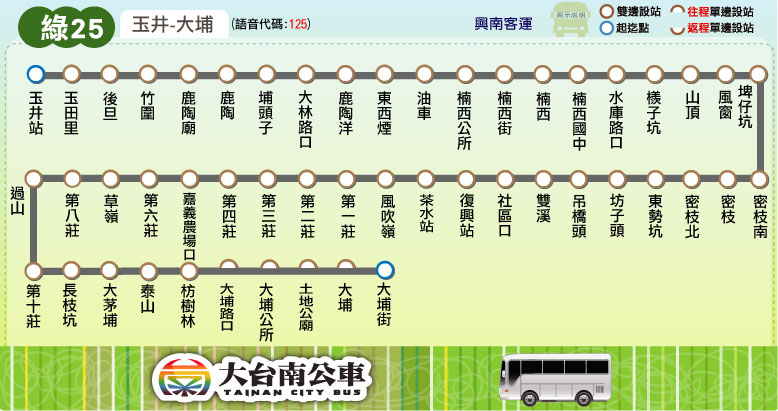
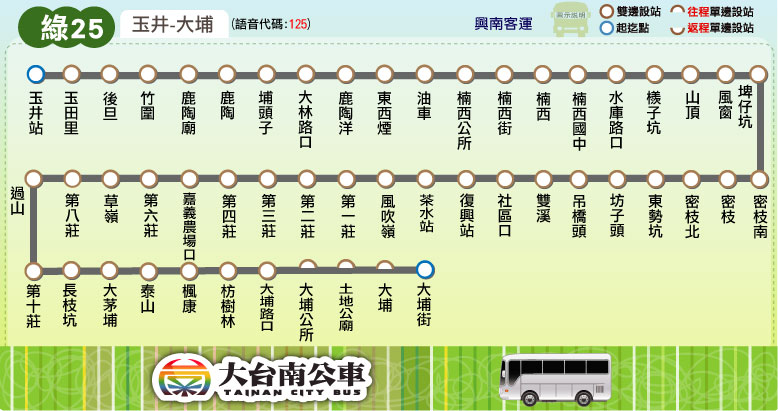
更新時刻表：3、10、15、綠幹線、綠12、黃6、黃11-1(改為每日行駛)；新增站位：綠25(增「楓康」站)

Changed region(s): [[0.2159, 0.6131, 0.5861, 0.8467], [0.0925, 0.6423, 0.1234, 0.6715]]

diff --git a/route/fare_and_time/city_bus_3.js b/route/fare_and_time/city_bus_3.js
@@ -2,26 +2,38 @@
 // [time, other] or
 // [time, start_stop, end_stop, other]
 city_bus_3_main_stop_name = ["海東國小","海東橋","特力屋、<br />好市多","赤崁樓","臺南<br />火車站","文化中心","市立醫院","竹篙厝","全福新城","復興國中"];
-city_bus_3_main_stop_time_consume = [0, 10, 15, 25, 35, 50, 58, 65, 70, 75];
-city_bus_3_important_stop = [0, 4, 7]; // 海東國小, 臺南火車站, 竹篙厝
+city_bus_3_main_stop_time_consume = [0, 10, 15, 25, 35, 50, 58, 65, 65, 75];
+city_bus_3_important_stop = [0, 4, 7, 8]; // 海東國小, 臺南火車站, 竹篙厝, 全福新城
 var start_stop = 0; // 海東國小
 var tra_tainan = 4; // 臺南火車站
 var end_stop = 7; // 竹篙厝
 var end_stop_2 = 8; // 全福新城
-city_bus_3_time_go = [["06:00",start_stop,end_stop,['W',[tra_tainan,-5]]],["06:15",start_stop,end_stop,['L']],["06:30",start_stop,end_stop,['W']],["06:45",start_stop,end_stop_2],["07:05",start_stop,end_stop],
-["07:35",start_stop,end_stop,['L']],["08:00",start_stop,end_stop],["08:30",start_stop,end_stop],["09:00",start_stop,end_stop],["09:30",start_stop,end_stop],["10:00",start_stop,end_stop_2],["10:30",start_stop,end_stop,['L']],
+city_bus_3_time_go = [["06:00",start_stop,end_stop,['W',[tra_tainan,-5]]],["06:15",start_stop,end_stop,['L']],["06:20",start_stop,end_stop,['W']],["06:30",start_stop,end_stop,['W']],["06:45",start_stop,end_stop_2,[end_stop]],["07:05",start_stop,end_stop],
+["07:35",start_stop,end_stop,['L']],["08:00",start_stop,end_stop],["08:30",start_stop,end_stop],["09:00",start_stop,end_stop],["09:30",start_stop,end_stop],["10:00",start_stop,end_stop_2,[end_stop]],["10:30",start_stop,end_stop,['L']],
 ["11:00",start_stop,end_stop,['L']],["11:30",[end_stop_2]],["12:00",start_stop,end_stop],["12:30",start_stop,end_stop],["13:00",start_stop,end_stop],["13:30",start_stop,end_stop,['L']],
-["14:00",start_stop,end_stop],["14:20",start_stop,end_stop],["14:40",start_stop,end_stop_2],["15:05",start_stop,end_stop],["15:25",start_stop,end_stop],["15:45",start_stop,end_stop],["16:00",[end_stop_2]],
-["16:20",start_stop,end_stop],["16:40",start_stop,end_stop,['L',[tra_tainan,5]]],["16:55",[end_stop_2,[tra_tainan,5]]],["17:10",start_stop,end_stop,[[tra_tainan,5]]],["17:25",start_stop,end_stop,[[tra_tainan,5]]],
+["14:00",start_stop,end_stop],["14:20",start_stop,end_stop],["14:40",start_stop,end_stop_2,[end_stop]],["15:05",start_stop,end_stop],["15:25",start_stop,end_stop],["15:45",start_stop,end_stop],["16:00",[end_stop_2]],
+["16:20",start_stop,end_stop],["16:40",start_stop,end_stop,['L']],["16:55",[end_stop_2,[tra_tainan,5]]],["17:10",start_stop,end_stop,[[tra_tainan,5]]],["17:25",start_stop,end_stop,[[tra_tainan,5]]],
 ["17:40",start_stop,end_stop,[[tra_tainan,5]]],["18:00",start_stop,end_stop,[[tra_tainan,5]]],["18:20",start_stop,end_stop,[[tra_tainan,5]]],["18:45",start_stop,end_stop],["19:25",start_stop,end_stop],["20:00",start_stop,end_stop],
 ["20:40",start_stop,end_stop],["21:15",start_stop,end_stop]
 ];
-city_bus_3_time_return = [["06:00",end_stop,start_stop,['W']],["06:15",[end_stop_2,[tra_tainan,-5]]],["06:30",end_stop,start_stop,['W']],["06:45",[end_stop_2,[tra_tainan,-5]]],
-["07:10",end_stop,start_stop],["07:30",end_stop,start_stop,['L']],["07:45",end_stop,start_stop],["08:00",end_stop_2,start_stop],["08:25",end_stop,start_stop],
-["08:50",end_stop,start_stop,['L']],["09:15",end_stop,start_stop],["09:45",end_stop,start_stop],["10:15",end_stop,start_stop,['L']],["10:45",end_stop,start_stop],
-["11:15",end_stop_2,start_stop],["11:45",end_stop,start_stop,['L']],["12:15",end_stop,start_stop,['L']],["12:50",[end_stop_2,[tra_tainan,-5]]],["13:15",end_stop,start_stop,['L']],
-["13:45",end_stop,start_stop],["14:15",end_stop,start_stop],["14:45",end_stop,start_stop,['L']],["15:15",end_stop,start_stop,['L']],["15:35",end_stop,start_stop],
-["16:00",end_stop_2,start_stop],["16:20",end_stop,start_stop],["16:40",end_stop,start_stop,['L']],["17:00",end_stop,start_stop,[[tra_tainan,5]]],["17:25",[end_stop_2,[tra_tainan,-5]]],
-["17:40",end_stop,start_stop,['L',[end_stop-1,5,tra_tainan,5]]],["18:05",end_stop,start_stop,['L',[tra_tainan,5]]],["18:30",[end_stop_2,[tra_tainan,-5]]],["18:50",end_stop,start_stop,[[tra_tainan,5]]],["19:25",end_stop,start_stop],
-["20:00",end_stop,start_stop],["20:40",end_stop,start_stop],["21:15",end_stop,start_stop,['L',[tra_tainan,5]]]
+
+var return_start = 1; // 竹篙厝
+var return_end = 9; // 海東國小
+var return_skip = 2; // 復興國中
+var return_tra_tainan = 5; // 臺南火車站
+city_bus_3_main_stop_name_return = ["全福新城","竹篙厝","復興國中","市立醫院","文化中心","臺南<br />火車站","赤崁樓","特力屋、<br />好市多","海東橋","海東國小"];
+city_bus_3_main_stop_time_consume_return = [0, 5, 20, 12, 20, 35, 40, 50, 55, 60];
+city_bus_3_important_stop_return = [0, 1, 5, 9]; // 全福新城, 竹篙厝, 臺南火車站, 海東國小
+city_bus_3_time_return = [["06:00",return_start,return_end,['W',return_skip]],["06:00",return_start,return_end,[[return_skip+1,20]]],["06:30",return_start,return_end,['W',return_skip]],
+["06:30",return_start,return_end,[[return_skip+1,20]]],["07:10",return_start,return_end,[return_skip]],["07:30",return_start,return_end,['L',return_skip]],
+["07:45",return_start,return_end,[return_skip]],["08:00",[return_skip]],["08:25",return_start,return_end,[return_skip]],["08:50",return_start,return_end,['L',return_skip]],
+["09:15",return_start,return_end,[return_skip]],["09:45",return_start,return_end,[return_skip]],["10:15",return_start,return_end,['L',return_skip]],
+["10:45",return_start,return_end,[return_skip]],["11:15",[return_skip]],["11:45",return_start,return_end,['L',return_skip]],["12:15",return_start,return_end,['L',return_skip]],
+["12:35",return_start,return_end,[[return_skip+1,20]]],["13:15",return_start,return_end,['L',return_skip]],["13:45",return_start,return_end,[return_skip]],
+["14:15",return_start,return_end,[return_skip]],["14:45",return_start,return_end,['L',return_skip]],["15:15",return_start,return_end,['L',return_skip]],
+["15:35",return_start,return_end,[return_skip]],["16:00",[return_skip]],["16:20",return_start,return_end,[return_skip]],["16:40",return_start,return_end,['L',return_skip]],
+["17:00",return_start,return_end,[return_skip,[return_tra_tainan,5]]],["17:20",return_start,return_end,['W',return_skip]],["17:10",return_start,return_end,[[return_skip+1,20]]],
+["17:40",return_start,return_end,['L',return_skip,[return_tra_tainan-1,5,return_tra_tainan,5]]],["18:05",return_start,return_end,['L',return_skip,[return_tra_tainan,5]]],
+["18:15",return_start,return_end,[[return_skip+1,20]]],["18:50",return_start,return_end,[return_skip,[return_tra_tainan,5]]],["19:25",return_start,return_end,[return_skip]],
+["20:00",return_start,return_end,[return_skip]],["20:40",return_start,return_end,[return_skip]],["21:15",return_start,return_end,['L',return_skip,[return_tra_tainan,5]]]
 ];

diff --git a/route/fare_and_time/city_bus_15.js b/route/fare_and_time/city_bus_15.js
@@ -1,14 +1,16 @@
 // format = [time at the start stop] or
 // [time, other] or
 // [time, start_stop, end_stop, other]
-city_bus_15_main_stop_name = ["奇美<br />醫院","臺南<br />高工","中華、<br />小東路口","南紡<br />夢時代","中華東、<br />東門路口","巴克禮<br />公園","大林<br />國宅","國民、<br />大成路口","家齊<br />女中","大成<br />國中","大成<br />路口"];
+city_bus_15_main_stop_name = ["奇美<br />醫院","臺南<br />高工","中華、<br />小東路口","南紡購<br />物中心","中華東、<br />東門路口","巴克禮<br />公園","大林<br />國宅","國民、<br />大成路口","家齊<br />高中","大成<br />國中","大成<br />路口"];
 city_bus_15_main_stop_time_consume = [0, 5, 10, 12, 17, 21, 25, 27, 30, 33, 35];
 city_bus_15_important_stop = [0, 1, 3, 5, 8]; // 大成路口, 臺南站, 臺南火車站, 海東國小, 聖母廟, 城西里
-city_bus_15_time_go = [["06:00",0,9,['W']],["06:20",0,9],["06:45",0,9],["07:15"],["07:35",0,9],["08:15",0,9],["08:50",0,9],
-["09:20"],["09:55",0,9],["10:35",0,9],["11:00"],["11:35",0,9],["12:15",0,9],["12:50"],["13:20",0,9],["14:00",0,9],["14:40"],
-["15:10",0,9],["15:40",0,9],["16:20",0,9],["16:40"],["17:20",0,9],["17:55",0,9],["18:25"],["19:00",0,9],["19:35",0,9],
-["20:10",0,9],["20:40",0,9],["21:20",0,9],["22:00",0,9]];
-city_bus_15_time_return = [["06:10",9,0],["06:35",9,0],["06:55",9,0],["07:35",9,0],["08:08"],["08:40",9,0],["09:15",9,0],
-["09:55",9,0],["10:18"],["10:55",9,0],["11:35",9,0],["12:03"],["12:35",9,0],["13:15",9,0],["13:48"],["14:30",9,0],
-["15:00",9,0],["15:33"],["16:00",9,0],["16:35",9,0],["17:10",9,0],["17:33"],["18:15",9,0],["18:55",9,0],["19:28"],
-["20:00",9,0],["20:40",9,0],["21:20",9,0],["22:00",9,0]];
+var start_stop = 0; // 奇美醫院
+var end_stop = 9; // 大成國中
+city_bus_15_time_go = [["06:00",start_stop,end_stop,['W']],["06:15",start_stop,end_stop,['W']],["06:20",start_stop,end_stop,['H']],["06:30",start_stop,end_stop,['W']],["06:45",start_stop,end_stop],["07:15"],["07:35",start_stop,end_stop],["08:15",start_stop,end_stop],["08:50",start_stop,end_stop],
+["09:20"],["09:55",start_stop,end_stop],["10:35",start_stop,end_stop],["11:00"],["11:35",start_stop,end_stop],["12:15",start_stop,end_stop],["12:50"],["13:20",start_stop,end_stop],["14:00",start_stop,end_stop],["14:40"],
+["15:10",start_stop,end_stop],["15:40",start_stop,end_stop],["16:20",start_stop,end_stop],["16:40"],["17:20",start_stop,end_stop],["17:55",start_stop,end_stop],["18:25"],["19:00",start_stop,end_stop],["19:35",start_stop,end_stop],
+["20:10",start_stop,end_stop],["20:40",start_stop,end_stop],["21:20",start_stop,end_stop],["22:00",start_stop,end_stop]];
+city_bus_15_time_return = [["06:10",end_stop,start_stop],["06:20",end_stop,start_stop,['W']],["06:35",end_stop,start_stop],["06:55",end_stop,start_stop],["07:35",end_stop,start_stop],["08:08"],["08:40",end_stop,start_stop],["09:15",end_stop,start_stop],
+["09:55",end_stop,start_stop],["10:18"],["10:55",end_stop,start_stop],["11:35",end_stop,start_stop],["12:03"],["12:35",end_stop,start_stop],["13:15",end_stop,start_stop],["13:48"],["14:30",end_stop,start_stop],
+["15:00",end_stop,start_stop],["15:33"],["16:00",end_stop,start_stop],["16:35",end_stop,start_stop],["17:10",end_stop,start_stop],["17:33"],["18:15",end_stop,start_stop],["18:55",end_stop,start_stop],["19:28"],
+["20:00",end_stop,start_stop],["20:40",end_stop,start_stop],["21:20",end_stop,start_stop],["22:00",end_stop,start_stop]];

diff --git a/route/fare_and_time/yellow_6.js b/route/fare_and_time/yellow_6.js
@@ -38,18 +38,18 @@ yellow_6_holiday_fare = [
 // [time, other] or
 // [time, start_stop, end_stop, other]
 yellow_6_main_stop_name = ["新營","竹新里","仕安里","鎮安堂","菁寮","白沙屯","後壁火車站/<br />後壁區公所"];
-yellow_6_main_stop_time_consume = [0, 13, 15, 17, 21, 26, 41];
+yellow_6_main_stop_time_consume = [0, 13, 15, 16, 20, 25, 40];
 yellow_6_important_stop = [0, 4, 6]; // 新營, 菁寮, 後壁火車站
 var start_stop = 0; // 新營
 var skip_stop = 1; // 竹新里
 var skip_stop_2 = 3; // 鎮安堂
 var end_stop = 5; // 白沙屯
 yellow_6_time_go = [["05:50",start_stop,end_stop,[skip_stop,skip_stop_2]],["06:45",start_stop,end_stop,[skip_stop,skip_stop_2]],
-["08:00",['繞',[skip_stop+1,12,skip_stop_2,2]]],["11:00",['繞',[skip_stop+1,12,skip_stop_2,2]]],["13:05",['繞',[skip_stop+1,12,skip_stop_2,2]]],["15:20",[skip_stop,skip_stop_2]],["17:40",[skip_stop,skip_stop_2]]];
+["07:50",['繞',[skip_stop+1,12,skip_stop_2,3]]],["11:00",['繞',[skip_stop+1,12,skip_stop_2,3]]],["13:05",['繞',[skip_stop+1,12,skip_stop_2,3]]],["15:20",[skip_stop,skip_stop_2]],["17:40",[skip_stop,skip_stop_2]]];
 yellow_6_time_return = [["06:20",end_stop,start_stop,[skip_stop,skip_stop_2]],["07:10",end_stop,start_stop,[skip_stop,skip_stop_2]],
-["09:00",['繞',[skip_stop_2-1,2,skip_stop,12]]],["12:00",['繞',[skip_stop_2-1,2,skip_stop,12]]],["14:05",['繞',[skip_stop_2-1,2,skip_stop,12]]],["16:05",[skip_stop,skip_stop_2]],["18:30",[skip_stop,skip_stop_2]]];
+["08:50",['繞',[skip_stop_2-1,3,skip_stop,12]]],["12:00",['繞',[skip_stop_2-1,3,skip_stop,12]]],["14:05",['繞',[skip_stop_2-1,3,skip_stop,12]]],["16:05",[skip_stop,skip_stop_2]],["18:30",[skip_stop,skip_stop_2]]];
 // holiday schedule
 yellow_6_holiday_time_go = [["05:50",start_stop,end_stop,[skip_stop,skip_stop_2]],["06:45",start_stop,end_stop,[skip_stop,skip_stop_2]],
-["08:00",[skip_stop,skip_stop_2]],["11:00",[skip_stop,skip_stop_2]],["13:05",[skip_stop,skip_stop_2]],["15:20",[skip_stop,skip_stop_2]],["17:40",[skip_stop,skip_stop_2]]];
+["07:50",[skip_stop,skip_stop_2]],["11:00",[skip_stop,skip_stop_2]],["13:05",[skip_stop,skip_stop_2]],["15:20",[skip_stop,skip_stop_2]],["17:40",[skip_stop,skip_stop_2]]];
 yellow_6_holiday_time_return = [["06:20",end_stop,start_stop,[skip_stop,skip_stop_2]],["07:10",end_stop,start_stop,[skip_stop,skip_stop_2]],
-["08:45",[skip_stop,skip_stop_2]],["11:45",[skip_stop,skip_stop_2]],["13:50",[skip_stop,skip_stop_2]],["16:05",[skip_stop,skip_stop_2]],["18:30",[skip_stop,skip_stop_2]]];
+["08:35",[skip_stop,skip_stop_2]],["11:45",[skip_stop,skip_stop_2]],["13:50",[skip_stop,skip_stop_2]],["16:05",[skip_stop,skip_stop_2]],["18:30",[skip_stop,skip_stop_2]]];

diff --git a/route/fare_and_time/yellow_11_1.js b/route/fare_and_time/yellow_11_1.js
@@ -19,7 +19,6 @@ yellow_11_1_interval_stop = [
 ["東原國中","瓦厝"],
 ["東原"]*/
 ];
-yellow_11_1_stop_time_consume = [0,1,2,3,4,5,7,8,8,9,9,10,11,14,14,15,15,16,17,18,20,22,23,24,24,25,26,27];
 yellow_11_1_fare = [
 [26],
 [26,26],
@@ -40,12 +39,12 @@ yellow_11_1_fare = [
 // format = [time at the start stop] or
 // [time, other] or
 // [time, start_stop, end_stop, other]
-yellow_11_1_main_stop_name = ["白河","東山","東原","南寮口","二坑埔","李子園","北寮","青山","東原","白河"];
-yellow_11_1_main_stop_time_consume = [0, 5, 22, 31, 36, 50, 55, 62, 68, 90];
+yellow_11_1_main_stop_name = ["白河","東山","東原","南寮口","二坑埔","檳榔宅","李子園","北寮","青山","東原國中","白河"];
+yellow_11_1_main_stop_time_consume = [0, 5, 22, 31, 36, 39, 50, 55, 62, 68, 90];
+yellow_11_1_important_stop = [0, 4, 6, 8, 10]; // 白河, 二坑埔, 李子園, 青山, 白河
 yellow_11_1_time_go = [["06:10"]];
 
-yellow_11_1_main_stop_name_reverse = ["白河","東山","東原","青山","北寮","李子園","二坑埔","南寮口","東原","白河"];
-yellow_11_1_main_stop_time_consume_reverse = [0, 5, 22, 27, 35, 40, 54, 59, 68, 90];
+yellow_11_1_main_stop_name_return = ["白河","東山","東原","青山","北寮","李子園","檳榔宅","二坑埔","南寮口","東原國中","白河"];
+yellow_11_1_main_stop_time_consume_return = [0, 5, 22, 28, 35, 40, 51, 54, 59, 68, 90];
+yellow_11_1_important_stop_return = [0, 3, 5, 7, 10]; // 白河, 青山, 李子園, 二坑埔, 白河
 yellow_11_1_time_return = [["12:40"],["16:40"]];
-
-yellow_11_1_important_stop = [0, 3, 4, 5, 6, 7]; // 白河, 二坑埔 李子園, 青山

diff --git a/yellow/yellow_11-1.html b/yellow/yellow_11-1.html
@@ -55,22 +55,7 @@
 	</div>\
 </div>');
 	block_fare(0, null);
-	document.write('<div id="timetable">\
-	<a name="time"></a>\
-	<div class="title">\
-		<h2>大台南公車 ─ ' + route_name + ' 時刻表</h2>\
-		<span class="byline">Tainan Bus ' + route_name_en + ', Bus schedule</span>\
-	</div>\
-	<div class="content">\
-		<h2><font color="orange">白河-&gt;二坑埔-&gt;李子園-&gt;青山-&gt;白河</font></h2>'
-	+ create_time_schedule(yellow_11_1_main_stop_name, yellow_11_1_main_stop_time_consume, yellow_11_1_important_stop, yellow_11_1_time_go, false)
-	+ '<p>　</p>\
-		<h2><font color="orange">白河-&gt;青山-&gt;李子園-&gt;二坑埔-&gt;白河</font></h2>'
-	+ create_time_schedule(yellow_11_1_main_stop_name_reverse, yellow_11_1_main_stop_time_consume_reverse, yellow_11_1_important_stop, yellow_11_1_time_return, false)
-	+ TimeScheduleMSG
-	+ 	'<h1><font color="blue">僅週一至週五行駛</font></h1>\
-	</div>\
-</div>');
+	block_time_schedule_diffreturn('白河-&gt;二坑埔-&gt;李子園-&gt;青山-&gt;白河','白河-&gt;青山-&gt;李子園-&gt;二坑埔-&gt;白河','');
 	block_transfer(transfer_baihe);
 	block_copyright();
 </script>

diff --git a/route/fare_and_time/green_12.js b/route/fare_and_time/green_12.js
@@ -33,7 +33,7 @@ green_12_main_stop_time_consume = [0, 8, 14, 17, 19, 21, 24, 30, 38, 46, 55];
 green_12_important_stop = [0, 3, 7, 10]; // 新化, 左鎮化石館, 南化, 玉山
 start_stop = 0; // 新化
 end_stop = 7; // 南化
-green_12_time_go = [["05:25",start_stop,end_stop],["07:00",start_stop,end_stop,['W']],["08:10"],["08:35",start_stop,end_stop,['W']],
+green_12_time_go = [["05:25",start_stop,end_stop],["07:00",start_stop,end_stop,['W']],["08:00",start_stop,end_stop,['W']],["08:10"],["08:35",start_stop,end_stop,['W']],
 ["10:30"],["12:20"],["14:05",['W']],["15:40",start_stop,end_stop,['W']],["17:25",start_stop,end_stop,['W']],["18:10"],["21:20"]];
-green_12_time_return = [["05:55",end_stop,start_stop],["07:30",end_stop,start_stop,['W']],["09:05",end_stop,start_stop,['W']],["09:10"],
+green_12_time_return = [["05:55",end_stop,start_stop],["07:30",end_stop,start_stop,['W']],["08:30",end_stop,start_stop,['W']],["09:05",end_stop,start_stop,['W']],["09:10"],
 ["11:30"],["13:20"],["15:00",['W']],["16:15",end_stop,start_stop,['W']],["17:55",end_stop,start_stop,['W']],["19:10"],["22:15"]];

diff --git a/route/fare_and_time/city_bus_10.js b/route/fare_and_time/city_bus_10.js
@@ -2,7 +2,7 @@
 // [time, other] or
 // [time, start_stop, end_stop, other]
 city_bus_10_main_stop_name = ["臺南<br />火車站","小西門<br />(大億麗緻)","永華市政中心<br />(府前路)","特力屋<br />好市多","同安路口","海東國小","臺南科工區<br />服務中心","四草野生<br />動物保護區","大眾廟","鹿耳門<br />天后宮"];
-city_bus_10_main_stop_time_consume = [0, 9, 15, 25, 35, 45, 53, 59, 60, 65];
+city_bus_10_main_stop_time_consume = [0, 9, 15, 25, 35, 40, 48, 54, 55, 60];
 city_bus_10_important_stop = [0, 2, 5, 7, 9]; // 臺南火車站, 永華市政中心, 海東國小, 鹽田生態村, 鹿耳門天后宮
-city_bus_10_time_go = [["06:10"],["07:20",[[1,-5,3,-3,4,-5,5,-7]]],["08:35"],["11:00"],["12:10"],["14:30"],["16:00",[[3,-3,4,-5,5,-7]]],["17:20"],["18:30"]];
+city_bus_10_time_go = [["06:10"],["07:20"],["08:35"],["11:00"],["12:10"],["14:30"],["16:00"],["17:20"],["18:30"]];
 city_bus_10_time_return = [["06:10"],["07:15"],["08:50"],["10:00"],["12:30"],["13:40"],["16:00"],["17:00"],["18:50"],["20:10"]];

diff --git a/route/fare_and_time/green.js b/route/fare_and_time/green.js
@@ -34,7 +34,7 @@ green_main_stop_name = ["臺南公園<br />(公園路)","臺南<br />火車站",
 green_main_stop_time_consume = [0, 5, 14, 19, 22, 45, 53, 57, 61, 65, 75];
 green_important_stop = [0, 1, 5, 10]; // 臺南公園, 臺南火車站, 新化, 玉井
 green_time_go = [["05:55"],["06:10"],["06:25"],["06:40",['L']],["06:55"],
-["07:00",0,5],["07:10",0,5],["08:00",5,10,['W']],["07:25"],["07:35",0,5,['W']],["07:40"],["07:55"],["08:10"],["08:25"],["08:55"],
+["07:00",0,5],["07:10",0,5],["07:25"],["07:35",0,5,['W']],["07:40"],["07:55"],["08:10"],["08:25"],["09:30",5,10,['W']],["08:55"],
 ["09:10"],["09:25"],["09:40",['L']],["09:55"],["10:25"],["10:40"],["10:55"],["11:25"],["11:55"],["12:10"],["12:25"],["12:40"],
 ["12:55",['L']],["13:25"],["13:40"],["13:55"],["14:25"],["14:55"],["15:10"],["15:25"],["15:55"],["16:25",['L']],["16:55"],
 ["17:10"],["17:20",0,5,['W']],["17:25"],["17:40"],["18:30",5,10,['W']],["17:55"],["18:10",['W']],["18:25"],["18:55"],["19:25"],

diff --git a/urban/3.html b/urban/3.html
@@ -20,7 +20,7 @@
 	block_route_map(null);
 	block_route_info(route_interval,'府城客運','尖15離30','一段票','http://2384.tainan.gov.tw:8080/AGPSRemoteQuery3/ajaxBus.jsp?pathId=10163&locale=zh_TW');
 	block_fare(1, null);
-	block_time_schedule('海東國小','竹篙厝/全福新城/復興國中',W_message+'；'+L_message);
+	block_time_schedule_diffreturn('海東國小-&gt;竹篙厝/全福新城','竹篙厝/全福新城-&gt;海東國小',W_message+'；'+L_message);
 	block_transfer(transfer_haidong_elementary_school + transfer_tainan_railway_station + transfer_culture_center);
 	block_copyright();
 </script>

diff --git a/route/fare_and_time/green_25.js b/route/fare_and_time/green_25.js
@@ -9,7 +9,7 @@ green_25_interval_stop = [
 ["風吹嶺","第一莊","第二莊"], // 第一莊
 ["第三莊","第四莊"], // 第三莊
 ["嘉義農場","第六莊","草嶺","第八莊"], // 嘉義農場
-["過山","第十莊","長枝坑","大茅埔","泰山","枋樹林"], // 大茅埔
+["過山","第十莊","長枝坑","大茅埔","泰山","楓康","枋樹林"], // 大茅埔
 ["大埔路口","大埔公所","土地公廟","大埔","大埔街"] // 大埔
 ];
 green_25_fare = [
